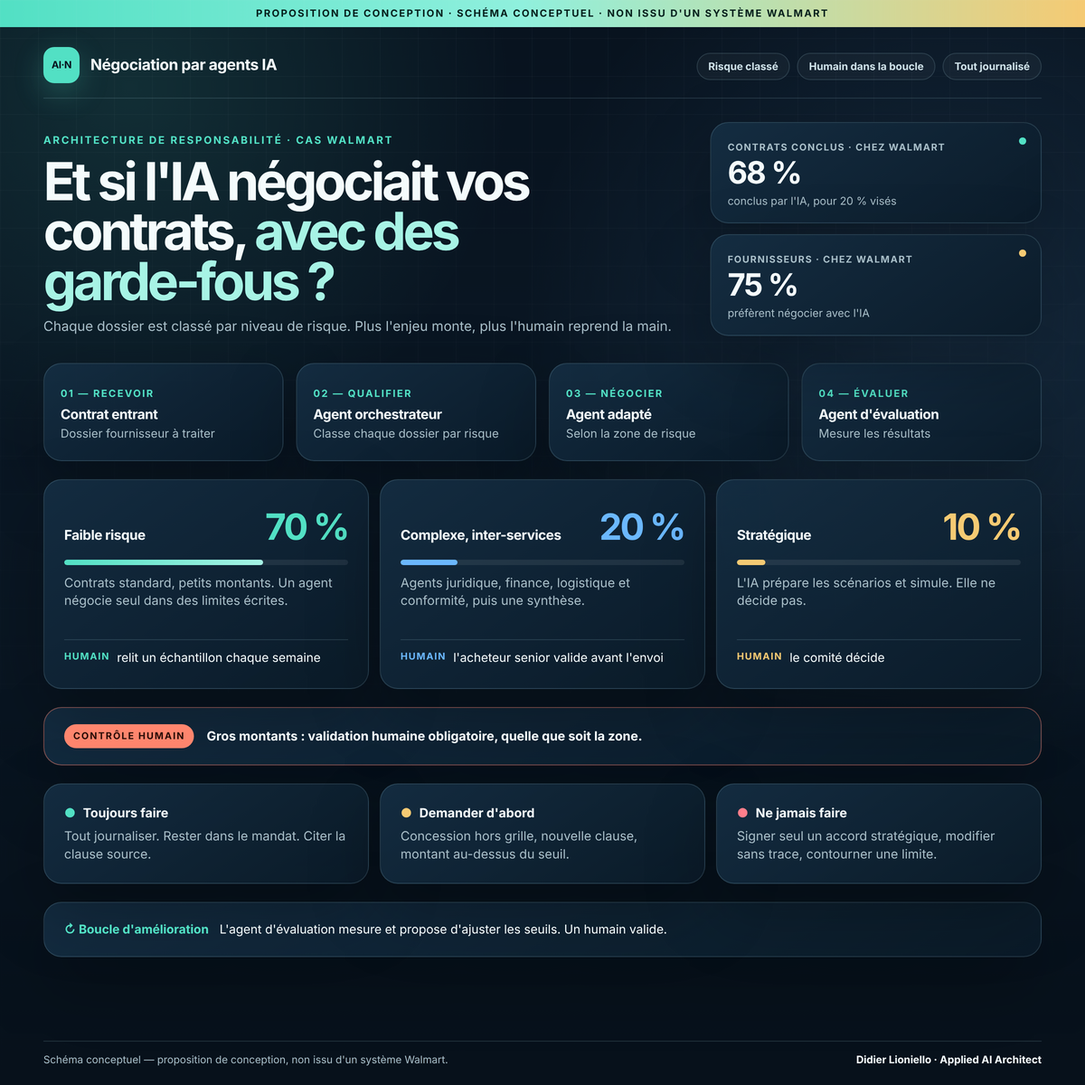
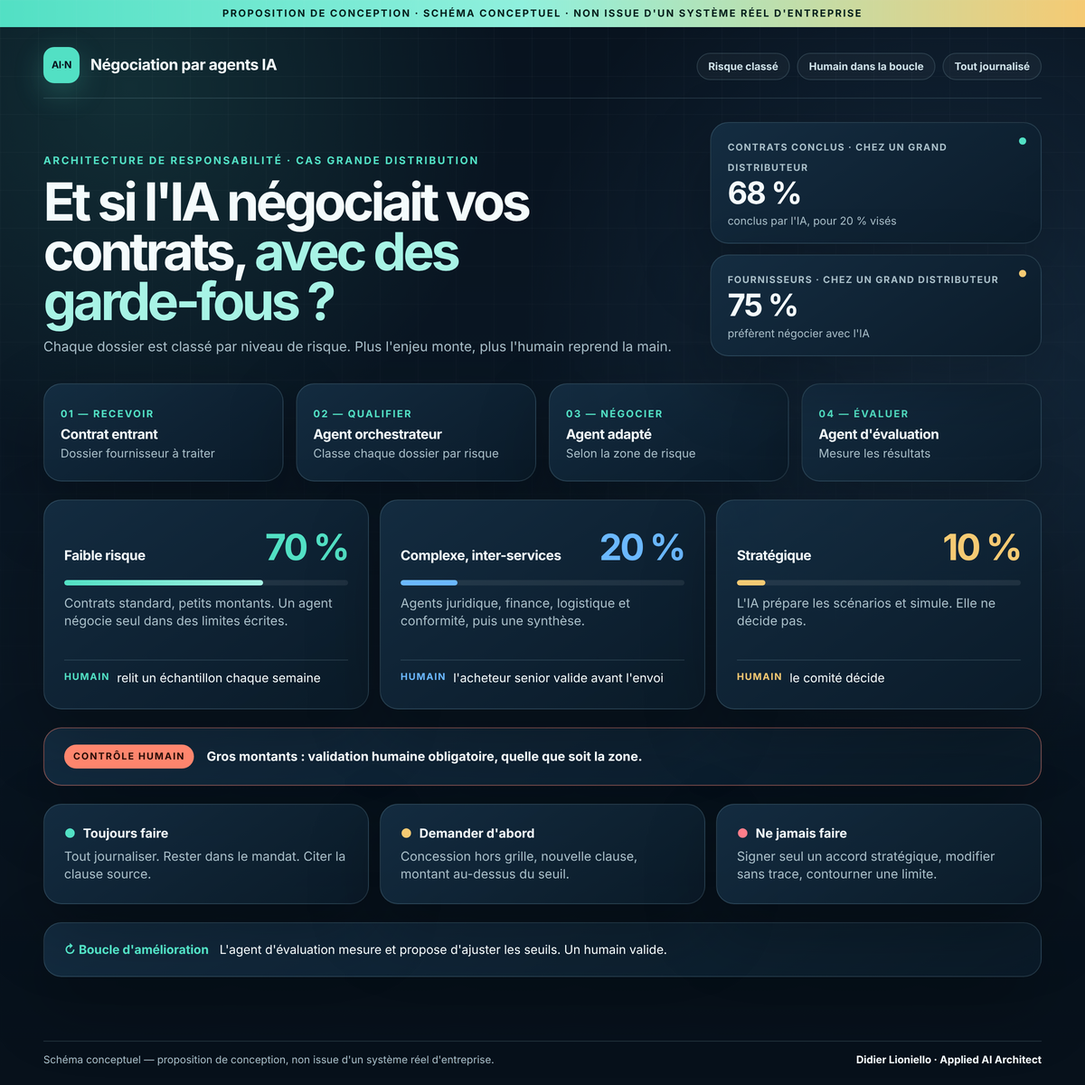
Diagramme en pleine largeur en tête de page, version Mermaid visible, cas anonymisé (grand distributeur)

diff --git a/diagramme.html b/diagramme.html
@@ -1,0 +1,91 @@
+<!doctype html>
+<html lang="fr"><head><meta charset="utf-8"><title>Diagramme · Négocier avec des agents IA, avec des garde-fous</title>
+<style>
+*{box-sizing:border-box;margin:0}
+html,body{width:3000px;height:2100px;overflow:hidden}
+body{position:relative;color:#f4fbfc;font-family:Inter,ui-sans-serif,"Segoe UI",sans-serif;
+background:radial-gradient(circle at 12% 10%,rgba(82,224,196,.16),transparent 900px),radial-gradient(circle at 88% 30%,rgba(107,184,255,.16),transparent 1000px),radial-gradient(circle at 50% 95%,rgba(245,202,115,.08),transparent 900px),linear-gradient(180deg,#08131f,#0a1724 50%,#07111b)}
+body::before{content:"";position:absolute;inset:0;background-image:linear-gradient(rgba(255,255,255,.025) 2px,transparent 2px),linear-gradient(90deg,rgba(255,255,255,.025) 2px,transparent 2px);background-size:84px 84px}
+.bar{position:absolute;left:0;right:0;top:0;height:16px;background:linear-gradient(90deg,#52e0c4,#8ff0dd 48%,#f5ca73)}
+.n{position:absolute;padding:30px 36px;border:2px solid rgba(166,210,223,.2);border-radius:36px;background:linear-gradient(160deg,#152e43,#0b1b29);box-shadow:0 40px 100px rgba(0,0,0,.35)}
+.eb{color:#52e0c4;font-size:30px;font-weight:850;letter-spacing:.14em;text-transform:uppercase}
+h1{position:absolute;left:80px;top:110px;font-size:104px;font-weight:900;letter-spacing:-.045em;line-height:1}
+h1 em{font-style:normal;color:#f5ca73}
+.t{font-size:46px;font-weight:850;letter-spacing:-.025em;line-height:1.1;margin-top:10px}
+.d{font-size:33px;color:#c3d5dc;line-height:1.3;margin-top:12px}
+.big{font-size:96px;font-weight:900;letter-spacing:-.05em;line-height:1}
+ul{padding-left:34px;margin-top:12px}li{font-size:30px;color:#c3d5dc;line-height:1.22;margin:4px 0}
+.gate{border-style:solid;border-width:2px 14px;border-radius:18px;background:linear-gradient(160deg,#1a3a40,#0d2026)}
+.orch{border:4px solid #52e0c4;box-shadow:0 0 90px rgba(82,224,196,.45),0 0 0 14px rgba(82,224,196,.08),0 40px 100px rgba(0,0,0,.35)}
+svg{position:absolute;inset:0;pointer-events:none}
+.lbl{font:850 38px Inter,sans-serif;letter-spacing:-.01em}
+</style></head><body>
+<div class="bar"></div>
+<p class="eb" style="position:absolute;left:84px;top:56px">Schéma conceptuel · Achats · Négociation fournisseurs</p>
+<h1>Négocier avec des agents IA,<br><em>avec des garde-fous</em></h1>
+<div class="n" style="left:1580px;top:40px;width:660px;height:270px;padding:26px 32px"><div class="eb" style="font-size:24px">Chez un grand distributeur</div><div class="big" style="color:#52e0c4">68 %</div><div class="d" style="margin-top:8px;font-size:31px">de contrats conclus par l'IA (objectif : 20 %)</div></div>
+<div class="n" style="left:2260px;top:40px;width:660px;height:270px;padding:26px 32px"><div class="eb" style="font-size:24px;color:#6bb8ff">Chez un grand distributeur</div><div class="big" style="color:#6bb8ff">75 %</div><div class="d" style="margin-top:8px;font-size:31px">des fournisseurs préfèrent négocier avec l'IA</div></div>
+
+<!-- principe -->
+<div class="n" style="left:80px;top:340px;width:1040px;height:330px"><div class="eb">Le principe</div><div class="t">Plus l'enjeu monte, plus l'humain reprend la main.</div><div class="d">Chaque agent a des objectifs, des limites et des règles écrites, plutôt qu'un prompt parfait. Tout est journalisé pour l'audit.</div></div>
+
+<!-- règles -->
+<div class="n" style="left:1300px;top:330px;width:1620px;height:390px;padding:24px 30px;border-color:rgba(245,202,115,.35)">
+<div class="eb" style="color:#f5ca73">Protocoles d'agent · fournis à l'orchestrateur et à chaque agent</div>
+<div style="display:grid;grid-template-columns:1fr 1fr 1fr;gap:30px;margin-top:6px">
+<div><div class="t" style="color:#52e0c4;font-size:40px">✓ Toujours faire</div><ul><li>Journaliser chaque décision</li><li>Rester dans le mandat</li><li>Citer la clause source</li><li>Escalader si doute</li></ul></div>
+<div><div class="t" style="color:#f5ca73;font-size:40px">? Demander d'abord</div><ul><li>Concession hors grille</li><li>Nouveau type de clause</li><li>Montant au-dessus du seuil</li><li>Fournisseur en litige</li></ul></div>
+<div><div class="t" style="color:#ff7e8b;font-size:40px">✕ Ne jamais faire</div><ul><li>Signer seul un accord clé</li><li>Modifier un contrat sans trace</li><li>Partager des données privées</li><li>Contourner une limite</li></ul></div>
+</div></div>
+
+<!-- recevoir -->
+<div class="n" style="left:80px;top:880px;width:400px;height:340px"><div class="eb">01 · Entrées</div><div class="t">Dossier fournisseur</div><div class="d">Contrats, historique de prix, objectifs et limites</div></div>
+<!-- orchestrateur -->
+<div class="n orch" style="left:600px;top:830px;width:520px;height:440px"><div class="eb">02 · Qualifier</div><div class="t" style="font-size:58px">Agent orchestrateur</div><div class="d">Classe chaque dossier par niveau de risque et l'oriente vers la bonne zone</div></div>
+
+<!-- lanes: agents x1300-2150, gates x2290-2920 -->
+<div class="n" style="left:1300px;top:740px;width:850px;height:250px;border-left:10px solid #52e0c4"><div class="eb">03 · 70 % · Faible risque</div><div class="t">Agent de négociation autonome</div><div class="d">Négocie seul, dans des limites écrites</div></div>
+<div class="n gate" style="left:2290px;top:740px;width:630px;height:250px;border-color:#52e0c4"><div class="eb">Contrôle humain</div><div class="t" style="font-size:40px">Un humain relit un échantillon chaque semaine</div></div>
+
+<div class="n" style="left:1300px;top:1020px;width:850px;height:250px;border-left:10px solid #6bb8ff"><div class="eb" style="color:#6bb8ff">03 · 20 % · Complexe</div><div class="t">Agents juridique, finance, logistique, conformité</div><div class="d">+ un agent de synthèse</div></div>
+<div class="n gate" style="left:2290px;top:1020px;width:630px;height:250px;border-color:#6bb8ff"><div class="eb" style="color:#6bb8ff">Contrôle humain</div><div class="t" style="font-size:40px">L'acheteur senior valide avant l'envoi</div></div>
+
+<div class="n" style="left:1300px;top:1300px;width:850px;height:250px;border-left:10px solid #f5ca73"><div class="eb" style="color:#f5ca73">03 · 10 % · Stratégique</div><div class="t">Agent de préparation</div><div class="d">L'IA prépare les scénarios et simulations</div></div>
+<div class="n gate" style="left:2290px;top:1300px;width:630px;height:250px;border-color:#f5ca73"><div class="eb" style="color:#f5ca73">Contrôle humain</div><div class="t" style="font-size:40px">Le comité décide</div></div>
+
+<!-- gros montants -->
+<div class="n" style="left:1300px;top:1580px;width:1620px;height:110px;padding:0 36px;display:flex;align-items:center;gap:24px;border:4px dashed #ff866e;background:linear-gradient(90deg,rgba(255,134,110,.22),rgba(255,134,110,.08))"><span style="font-size:40px;font-weight:900;color:#ff866e;letter-spacing:.04em">GROS MONTANTS</span><span style="font-size:36px;font-weight:700">validation humaine obligatoire, quelle que soit la zone</span></div>
+
+<!-- évaluer -->
+<div class="n" style="left:1300px;top:1770px;width:1620px;height:240px;border:3px solid #f5ca73"><div class="eb" style="color:#f5ca73">04 · Évaluer</div><div class="t">Agent d'évaluation</div><div class="d">Mesure conclusion, délais, écarts de prix, avis fournisseurs ; propose d'ajuster les seuils</div></div>
+
+<!-- footer left -->
+<div style="position:absolute;left:80px;top:1920px;width:1150px"><div style="font-size:30px;color:#a8bec8">Schéma conceptuel — proposition de conception, non issue d'un système réel d'entreprise.</div><div style="font-size:40px;font-weight:850;margin-top:14px">Didier Lioniello · <span style="color:#52e0c4">Applied AI Architect</span></div></div>
+
+<svg viewBox="0 0 3000 2100" width="3000" height="2100">
+<defs>
+<marker id="mt" viewBox="0 0 10 10" refX="8" refY="5" markerWidth="5" markerHeight="5" orient="auto"><path d="M0 0L10 5L0 10z" fill="#52e0c4"/></marker>
+<marker id="mb" viewBox="0 0 10 10" refX="8" refY="5" markerWidth="5" markerHeight="5" orient="auto"><path d="M0 0L10 5L0 10z" fill="#6bb8ff"/></marker>
+<marker id="mg" viewBox="0 0 10 10" refX="8" refY="5" markerWidth="5" markerHeight="5" orient="auto"><path d="M0 0L10 5L0 10z" fill="#f5ca73"/></marker>
+<marker id="mw" viewBox="0 0 10 10" refX="8" refY="5" markerWidth="5" markerHeight="5" orient="auto"><path d="M0 0L10 5L0 10z" fill="#a8bec8"/></marker>
+</defs>
+<g fill="none" stroke-width="10" stroke-linecap="round">
+<path d="M480 1050H585" stroke="#a8bec8" marker-end="url(#mw)"/>
+<path d="M1120 990C1200 990 1200 865 1285 865" stroke="#52e0c4" marker-end="url(#mt)"/>
+<path d="M1120 1100C1200 1100 1200 1145 1285 1145" stroke="#6bb8ff" marker-end="url(#mb)"/>
+<path d="M1120 1200C1200 1200 1200 1425 1285 1425" stroke="#f5ca73" marker-end="url(#mg)"/>
+<path d="M2150 865H2275" stroke="#52e0c4" marker-end="url(#mt)"/>
+<path d="M2150 1145H2275" stroke="#6bb8ff" marker-end="url(#mb)"/>
+<path d="M2150 1425H2275" stroke="#f5ca73" marker-end="url(#mg)"/>
+<path d="M1300 700C1060 700 960 720 960 812" stroke="#f5ca73" marker-end="url(#mg)"/>
+<path d="M1725 1690V1758M2380 1690V1758M2780 1690V1758" stroke="#a8bec8" stroke-width="7" marker-end="url(#mw)"/>
+<path d="M1300 1890H860V1290" stroke="#f5ca73" stroke-dasharray="26 18" marker-end="url(#mg)"/>
+</g>
+<text class="lbl" x="1150" y="900" fill="#52e0c4">70 %</text>
+<text class="lbl" x="1170" y="1090" fill="#6bb8ff">20 %</text>
+<text class="lbl" x="1150" y="1400" fill="#f5ca73">10 %</text>
+<text class="lbl" x="880" y="1470" fill="#f5ca73">↺ ajuste seuils et</text>
+<text class="lbl" x="880" y="1520" fill="#f5ca73">répartition, validé</text><text class="lbl" x="880" y="1570" fill="#f5ca73">par un humain</text>
+<text x="2410" y="1738" fill="#a8bec8" style="font:700 30px Inter">résultats</text>
+</svg>
+</body></html>

diff --git a/index.html b/index.html
@@ -11,15 +11,36 @@
 <script src="app.js" defer></script>
 </head>
 <body>
-<div class="banner">PROPOSITION DE CONCEPTION · NON ISSUE D'UN SYSTÈME WALMART · AUCUN RÉSULTAT MESURÉ REVENDIQUÉ</div>
+<div class="banner">PROPOSITION DE CONCEPTION · NON ISSUE D'UN SYSTÈME RÉEL D'ENTREPRISE · AUCUN RÉSULTAT MESURÉ REVENDIQUÉ</div>
+<div class="diagram-wrap" id="schema">
+<a href="schema-agents-ia-diagramme.png" class="diagram-frame" title="Ouvrir en pleine résolution (3000 × 2100)"><img src="schema-agents-ia-diagramme-1400.png" srcset="schema-agents-ia-diagramme-1400.png 1400w, schema-agents-ia-diagramme.png 3000w" sizes="(max-width: 1540px) 100vw, 1500px" width="1400" height="980" loading="eager" fetchpriority="high" alt="Diagramme : le dossier fournisseur et les protocoles d'agent entrent dans l'agent orchestrateur, qui répartit les dossiers en trois zones : 70 % faible risque (agent autonome, un humain relit un échantillon chaque semaine), 20 % complexe (agents juridique, finance, logistique, conformité et synthèse, l'acheteur senior valide), 10 % stratégique (l'IA prépare les scénarios, le comité décide). Les gros montants exigent une validation humaine dans toutes les zones. L'agent d'évaluation mesure les résultats et ajuste seuils et répartition, validé par un humain."></a>
+</div>
 <header class="shell">
 <nav class="nav" aria-label="Navigation principale">
 <a class="brand" href="#top"><span class="brand-mark">IA</span>Agents IA en entreprise</a>
-<div class="nav-links"><a href="#chiffres">Chiffres</a><a href="#schema">Schéma</a><a href="#architecture">Architecture</a><a href="#flux">Flux</a><a href="#post">Post</a><a href="#limites">Limites</a></div>
+<div class="nav-links"><a href="#schema">Schéma</a><a href="#mermaid">Mermaid</a><a href="#chiffres">Chiffres</a><a href="#architecture">Architecture</a><a href="#flux">Flux</a><a href="#post">Post</a><a href="#limites">Limites</a></div>
 </nav>
 </header>
 <main class="shell" id="top">
-<section class="hero">
+<section id="mermaid" aria-labelledby="h-mermaid">
+<div class="section-head"><p class="eyebrow">Source</p><h2 id="h-mermaid">Version Mermaid (source du diagramme)</h2><p>Le diagramme ci-dessus est le rendu fidèle de ce flowchart. Détail : <a href="https://github.com/didier-lioniello/agents-ia-entreprise/blob/main/schema-agents-ia.md">schema-agents-ia.md</a> · <a href="schema-agents-ia-diagramme.png">PNG 3000 × 2100</a> · <a href="schema-agents-ia-diagramme-1400.png">PNG 1400</a> · <a href="schema-agents-ia-linkedin.png">visuel carré LinkedIn</a></p></div>
+<pre class="card code">flowchart TD
+    A[Entrées : contrats, historique de prix, objectifs et limites] --&gt; O[Agent orchestrateur : classe chaque dossier par niveau de risque]
+    R[Protocoles d&#x27;agent : toujours faire / demander d&#x27;abord / ne jamais faire] --&gt; O
+    O --&gt;|70 % faible risque| L1[Agent de négociation autonome]
+    O --&gt;|20 % complexe inter-services| L2[Agents juridique, finance, chaîne d&#x27;approvisionnement, conformité + agent de synthèse]
+    O --&gt;|10 % stratégique| L3[Agent de préparation : scénarios et simulations]
+    L1 --&gt; H1{{Contrôle humain : échantillon hebdomadaire et alerte de seuil}}
+    L2 --&gt; H2{{Contrôle humain : validation de l&#x27;acheteur senior avant envoi}}
+    L3 --&gt; H3{{Contrôle humain : le comité décide}}
+    G{{Gros montants : validation humaine obligatoire, quelle que soit la zone}} -.-&gt; H1 &amp; H2 &amp; H3
+    H1 --&gt; E[Agent d&#x27;évaluation : taux de conclusion, délais, écarts de prix, avis fournisseurs]
+    H2 --&gt; E
+    H3 --&gt; E
+    E --&gt;|ajuste seuils et répartition, validé par un humain| O
+</pre>
+</section>
+<section class="hero slim">
 <p class="eyebrow">Architecture d'agents IA · Achats</p>
 <h1>Négocier avec des agents IA, <em>avec des garde-fous.</em></h1>
 <p class="lead">Un orchestrateur classe chaque dossier fournisseur par niveau de risque. Plus l'enjeu monte, plus l'humain reprend la main. Des objectifs, des limites et des règles écrites, plutôt que le prompt parfait.</p>
@@ -27,9 +48,9 @@
 </section>
 
 <section id="chiffres" aria-labelledby="h-chiffres">
-<div class="section-head"><p class="eyebrow">Vue d'ensemble</p><h2 id="h-chiffres">Les chiffres du marché et du modèle</h2><p>Le point de départ : chez Walmart, une IA négocie déjà des contrats fournisseurs.</p></div>
+<div class="section-head"><p class="eyebrow">Vue d'ensemble</p><h2 id="h-chiffres">Les chiffres du marché et du modèle</h2><p>Le point de départ : chez un grand distributeur, une IA négocie déjà des contrats fournisseurs.</p></div>
 <div class="grid g2">
-<article class="card"><span class="kpi-label">Contrats conclus par l'IA</span><span class="kpi teal">68 %</span><div class="bar"><i class="t w68"></i></div><div class="bar-legend"><span>objectif initial : 20 %</span><span>atteint : 68 %</span></div><p>Chez Walmart, l'IA a conclu plus de trois fois plus de contrats que l'objectif fixé.</p></article>
+<article class="card"><span class="kpi-label">Contrats conclus par l'IA</span><span class="kpi teal">68 %</span><div class="bar"><i class="t w68"></i></div><div class="bar-legend"><span>objectif initial : 20 %</span><span>atteint : 68 %</span></div><p>Chez un grand distributeur, l'IA a conclu plus de trois fois plus de contrats que l'objectif fixé.</p></article>
 <article class="card"><span class="kpi-label">Fournisseurs qui préfèrent l'IA</span><span class="kpi blue">75 %</span><div class="bar"><i class="b w75"></i></div><div class="bar-legend"><span>0 %</span><span>100 %</span></div><p>Trois fournisseurs sur quatre préfèrent négocier avec elle, parce que c'est plus rapide.</p></article>
 </div>
 <div class="grid g4 mt18">
@@ -40,14 +61,6 @@
 </div>
 </section>
 
-<section id="schema" aria-labelledby="h-schema">
-<div class="section-head"><p class="eyebrow">Le schéma</p><h2 id="h-schema">Le visuel complet</h2></div>
-<figure class="card figure">
-<img src="schema-agents-ia-linkedin-1200.png" width="1200" height="1200" loading="lazy" alt="Schéma : un orchestrateur répartit les dossiers fournisseurs en trois zones de risque (70 % autonome, 20 % validé par un acheteur senior, 10 % décidé par un comité), avec trois listes de règles, une validation humaine pour les gros montants et un agent d'évaluation qui boucle sur l'orchestrateur.">
-<figcaption>Workflow d'agents IA de négociation fournisseurs, supervisé par niveau de risque. Proposition de conception de Didier Lioniello.</figcaption>
-<div class="links"><a class="btn" href="schema-agents-ia-linkedin.png">Version 2400 × 2400</a><a class="btn" href="schema-agents-ia-linkedin-1200.png">Version 1200 × 1200</a><a class="btn" href="https://github.com/didier-lioniello/agents-ia-entreprise/blob/main/schema-agents-ia.md">Détail et Mermaid</a></div>
-</figure>
-</section>
 
 <section id="architecture" aria-labelledby="h-archi">
 <div class="section-head"><p class="eyebrow">Architecture du système</p><h2 id="h-archi">Un orchestrateur, trois zones, un contrôle humain par zone</h2><p>L'agent orchestrateur reçoit les entrées (contrats, historique de prix, objectifs et limites) et classe chaque dossier par niveau de risque avant de l'orienter.</p></div>
@@ -97,7 +110,7 @@
 <div class="section-head"><p class="eyebrow">Post LinkedIn</p><h2 id="h-post">Le texte qui accompagne le visuel</h2></div>
 <article class="card">
 <div class="post-head"><span class="pill gold">Brouillon, non publié</span><button class="btn" id="copy-post" type="button">Copier le texte</button></div>
-<pre class="post" id="post-text">Chez Walmart, une IA négocie les contrats fournisseurs : 68 % de contrats conclus alors que l'objectif était de 20 %, et 75 % des fournisseurs préfèrent négocier avec elle, parce que c'est plus rapide.
+<pre class="post" id="post-text">Chez un grand distributeur, une IA négocie les contrats fournisseurs : 68 % de contrats conclus alors que l'objectif était de 20 %, et 75 % des fournisseurs préfèrent négocier avec elle, parce que c'est plus rapide.
 
 C'est impressionnant. Mais je ne confierais pas tous les contrats au même agent.
 
@@ -113,7 +126,7 @@ Voici l'architecture que je propose :
 
 Des objectifs, des limites et des règles, plutôt que le prompt parfait.
 
-Précision honnête : ce schéma est une proposition de conception, pas l'architecture de Walmart, et je n'ai pas de résultats mesurés pour lui.
+Précision honnête : ce schéma est une proposition de conception, pas l'architecture d'une entreprise réelle, et je n'ai pas de résultats mesurés pour lui.
 
 Et chez vous, quelle part des décisions pourrait passer en autonomie demain, avec quelles limites écrites ?
 
@@ -127,7 +140,7 @@ Didier Lioniello · Applied AI Architect</pre>
 <div class="section-head"><p class="eyebrow">Limites et honnêteté</p><h2 id="h-limites">Ce que ce livrable est, et n'est pas</h2></div>
 <div class="grid g3">
 <article class="card"><h3 class="teal">C'est</h3><p>Une proposition de conception de Didier Lioniello, Applied AI Architect : une manière de répartir l'autonomie des agents selon le risque.</p></article>
-<article class="card"><h3 class="coralc">Ce n'est pas</h3><p>L'architecture réelle de Walmart, qui n'est pas publique. Seuls les deux chiffres de départ concernent Walmart.</p></article>
+<article class="card"><h3 class="coralc">Ce n'est pas</h3><p>L'architecture réelle d'un grand distributeur, qui n'est pas publique. Seuls les deux chiffres de départ concernent la grande distribution.</p></article>
 <article class="card"><h3 class="goldc">À tester</h3><p>Aucun résultat mesuré n'est revendiqué. La répartition 70 / 20 / 10 et les seuils sont des hypothèses à valider sur des données réelles.</p></article>
 </div>
 </section>

diff --git a/infographic.html b/infographic.html
@@ -50,17 +50,17 @@ h1 em{font-style:normal;color:var(--teal-soft)}
 .foot{position:absolute;left:48px;right:48px;bottom:20px;display:flex;justify-content:space-between;color:var(--muted);font-size:11.5px;border-top:1px solid var(--line);padding-top:12px}
 .foot b{color:var(--text)}
 </style></head><body>
-<div class="banner">PROPOSITION DE CONCEPTION · SCHÉMA CONCEPTUEL · NON ISSU D'UN SYSTÈME WALMART</div>
+<div class="banner">PROPOSITION DE CONCEPTION · SCHÉMA CONCEPTUEL · NON ISSUE D'UN SYSTÈME RÉEL D'ENTREPRISE</div>
 <div class="wrap">
 <div class="nav"><div class="brand"><span class="mark">AI·N</span>Négociation par agents IA</div>
 <div><span class="pill">Risque classé</span><span class="pill">Humain dans la boucle</span><span class="pill">Tout journalisé</span></div></div>
 <div class="hero"><div>
-<p class="eyebrow">Architecture de responsabilité · cas Walmart</p>
+<p class="eyebrow">Architecture de responsabilité · cas grande distribution</p>
 <h1>Et si l'IA négociait vos contrats, <em>avec des garde‑fous&nbsp;?</em></h1>
 <p class="copy">Chaque dossier est classé par niveau de risque. Plus l'enjeu monte, plus l'humain reprend la main.</p></div>
 <div class="kpis">
-<div class="card kpi"><i class="dot" style="background:var(--teal)"></i><small>Contrats conclus · chez Walmart</small><b>68 %</b><span>conclus par l'IA, pour 20 % visés</span></div>
-<div class="card kpi"><i class="dot" style="background:var(--gold)"></i><small>Fournisseurs · chez Walmart</small><b>75 %</b><span>préfèrent négocier avec l'IA</span></div>
+<div class="card kpi"><i class="dot" style="background:var(--teal)"></i><small>Contrats conclus · chez un grand distributeur</small><b>68 %</b><span>conclus par l'IA, pour 20 % visés</span></div>
+<div class="card kpi"><i class="dot" style="background:var(--gold)"></i><small>Fournisseurs · chez un grand distributeur</small><b>75 %</b><span>préfèrent négocier avec l'IA</span></div>
 </div></div>
 <div class="flow">
 <div class="card step"><span class="n">01 — RECEVOIR</span><b>Contrat entrant</b><p>Dossier fournisseur à traiter</p></div>
@@ -81,5 +81,5 @@ h1 em{font-style:normal;color:var(--teal-soft)}
 </div>
 <div class="card loop"><b>↻ Boucle d'amélioration</b><span>L'agent d'évaluation mesure et propose d'ajuster les seuils. Un humain valide.</span></div>
 </div>
-<div class="foot"><span>Schéma conceptuel — proposition de conception, non issu d'un système Walmart.</span><b>Didier Lioniello · Applied AI Architect</b></div>
+<div class="foot"><span>Schéma conceptuel — proposition de conception, non issue d'un système réel d'entreprise.</span><b>Didier Lioniello · Applied AI Architect</b></div>
 </body></html>

diff --git a/styles.css b/styles.css
@@ -53,3 +53,10 @@ footer .links{justify-content:flex-start}
 @media (max-width:620px){.g2,.g4{grid-template-columns:1fr}.nav-links{gap:14px}.hero{padding-top:40px}.card{padding:20px}}
 .w68{width:68%}.w75{width:75%}.w70{width:70%}.w20{width:20%}.w10{width:10%}.mt{margin-top:16px}.mt18{margin-top:18px}.sig{color:var(--text)}
 .timeline{list-style:none;padding:0;margin:0}
+.diagram-wrap{width:min(1500px,calc(100% - 24px));margin:14px auto 0}
+.diagram-frame{display:block;padding:8px;border:1px solid var(--line);border-radius:24px;background:linear-gradient(160deg,#152e43,#0b1b29);box-shadow:0 0 60px rgba(82,224,196,.12),var(--shadow)}
+.diagram-frame img{display:block;width:100%;height:auto;border-radius:18px}
+.code{margin:0;overflow-x:auto;font:500 .88rem/1.6 ui-monospace,SFMono-Regular,Menlo,Consolas,monospace;color:var(--teal-soft);white-space:pre}
+.hero.slim{padding:40px 0 20px}
+.hero.slim h1{font-size:clamp(2rem,4vw,3rem)}
+@media (max-width:620px){.banner{font-size:.6rem;letter-spacing:.08em;padding:6px 12px}.diagram-wrap{width:calc(100% - 12px)}.diagram-frame{padding:4px;border-radius:14px}}

diff --git a/make_schema.py b/make_schema.py
@@ -28,7 +28,7 @@ def arrow(x1,y1,x2,y2,col="#444"):
     for s in (-0.5,0.5):
         d.line((x2,y2,x2-L*math.cos(a+s),y2-L*math.sin(a+s)),fill=col,width=5)
 d.text((50,28),"Négociation fournisseurs avec des agents IA : version supervisée par niveau de risque",font=f(38,True),fill="#0B2545")
-d.text((50,80),"Proposition de Didier Lioniello à partir du cas Walmart : 68 % de contrats conclus par l'IA, contre 20 % visés.",font=f(23),fill="#444")
+d.text((50,80),"Proposition de Didier Lioniello à partir du cas de départ : 68 % de contrats conclus par l'IA, contre 20 % visés.",font=f(23),fill="#444")
 # input
 box(50,130,560,150,"1. Entrées","Contrats fournisseurs, historique de prix, objectifs métier et limites (marge, délais, clauses).","#E8F0FE","#3B6FD4")
 box(720,130,560,150,"2. Agent orchestrateur","Lit l'objectif, classe chaque dossier par niveau de risque, attribue l'agent et fixe le point de contrôle.","#FFF4D6","#D9A400")
@@ -62,7 +62,7 @@ for i,(t,b,c) in enumerate(cols):
     for l in wrap(b,f(20),590): d.text((x,ty),l,font=f(20),fill="#222"); ty+=28
 # bottom loop
 box(50,1360,900,160,"3. Agent d'évaluation (boucle d'amélioration)","Mesure le taux de contrats conclus, les délais, les écarts de prix et l'avis des fournisseurs. Propose d'ajuster les seuils et la répartition 70 / 20 / 10, toujours validé par un humain.","#E8F0FE","#3B6FD4",bs=20)
-box(1000,1360,950,160,"Ce qui s'améliore par rapport au cas Walmart","Les décisions à fort enjeu restent humaines, tout est tracé, les seuils sont revus par des mesures, et chaque agent a un mandat écrit plutôt qu'une consigne parfaite.","#E3F6E8","#2E9B54",bs=20)
+box(1000,1360,950,160,"Ce qui s'améliore par rapport au cas de départ","Les décisions à fort enjeu restent humaines, tout est tracé, les seuils sont revus par des mesures, et chaque agent a un mandat écrit plutôt qu'une consigne parfaite.","#E3F6E8","#2E9B54",bs=20)
 arrow(1000,1330,500,1360,"#444"); 
-d.text((50,1530),"Schéma de proposition, pas l'architecture réelle de Walmart. Proposition de conception de Didier Lioniello (Applied AI Architect).",font=f(18),fill="#666")
+d.text((50,1530),"Schéma de proposition, pas l'architecture réelle d'une entreprise. Proposition de conception de Didier Lioniello (Applied AI Architect).",font=f(18),fill="#666")
 img.save("schema-agents-ia.png")

diff --git a/README.md b/README.md
@@ -2,27 +2,29 @@
 
 [Ouvrir la page en ligne](https://didier-lioniello.github.io/agents-ia-entreprise/).
 
-> **PROPOSITION DE CONCEPTION · NON ISSUE D'UN SYSTÈME WALMART**
+> **PROPOSITION DE CONCEPTION · NON ISSUE D'UN SYSTÈME RÉEL D'ENTREPRISE**
 > Aucun résultat mesuré n'est revendiqué. Rien n'est publié sur les réseaux sociaux depuis ce dépôt.
 
 Ce dépôt présente une architecture d'agents IA pour la négociation de contrats fournisseurs, supervisée par niveau de risque : un orchestrateur répartit les dossiers en trois zones (70 / 20 / 10 %), chaque zone a son contrôle humain, trois listes de règles encadrent les agents et un agent d'évaluation ajuste le système. C'est une proposition de Didier Lioniello (Applied AI Architect).
 
 La page [`index.html`](index.html) est statique : pas d'API, pas de CDN, pas de traceur. Une Content Security Policy stricte n'autorise que la feuille de style, le script et les images locaux.
 
-![Aperçu de la page](docs/apercu.png)
+![Diagramme : négocier avec des agents IA, avec des garde-fous](schema-agents-ia-diagramme.png)
+
+Diagramme complet : [`schema-agents-ia-diagramme.png`](schema-agents-ia-diagramme.png) (3000 × 2100) · [version 1400](schema-agents-ia-diagramme-1400.png) · source [`diagramme.html`](diagramme.html). Aperçu de la page : [`docs/apercu.png`](docs/apercu.png).
 
 ## Vue d'ensemble
 
 | Indicateur | Valeur |
 |---|---|
-| Contrats conclus par l'IA chez Walmart | 68 % (objectif : 20 %) |
+| Contrats conclus par l'IA chez un grand distributeur | 68 % (objectif : 20 %) |
 | Fournisseurs qui préfèrent négocier avec l'IA | 75 % |
 | Zones de risque du modèle | 3 (70 % faible, 20 % complexe, 10 % stratégique) |
 | Étapes du flux | 4 (Recevoir, Qualifier, Négocier, Évaluer) |
 | Listes de règles | 3 (toujours faire, demander d'abord, ne jamais faire) |
 | Validation humaine obligatoire | 1 (gros montants, toutes zones) |
 
-Seuls les deux premiers chiffres concernent Walmart ; le reste décrit la conception proposée.
+Seuls les deux premiers chiffres concernent la grande distribution ; le reste décrit la conception proposée.
 
 ## Architecture
 
@@ -30,12 +32,13 @@ Détail : [`docs/architecture.md`](docs/architecture.md) · flux : [`docs/workfl
 
 ## Contenu de la page
 
-1. Vue d'ensemble des chiffres
-2. Le schéma visuel (2400 × 2400 et 1200 × 1200)
-3. Architecture : orchestrateur, zones 70 / 20 / 10, validation des gros montants, règles, agent d'évaluation
-4. Flux de travail en quatre étapes et diagramme en HTML/CSS
-5. Post LinkedIn (brouillon, non publié) avec bouton de copie
-6. Limites et honnêteté
+1. Le diagramme, en pleine largeur tout en haut
+2. Version Mermaid (source du diagramme)
+3. Vue d'ensemble des chiffres
+4. Architecture : orchestrateur, zones 70 / 20 / 10, validation des gros montants, règles, agent d'évaluation
+5. Flux de travail en quatre étapes et diagramme en HTML/CSS
+6. Post LinkedIn (brouillon, non publié) avec bouton de copie
+7. Limites et honnêteté
 
 ## Voir en local
 
@@ -47,7 +50,15 @@ python3 -m http.server 8000   # puis http://localhost:8000
 
 Ouvrir `index.html` directement fonctionne aussi.
 
-## Générer le visuel
+## Générer les visuels
+
+Le diagramme vient de [`diagramme.html`](diagramme.html), rendu fidèle du flowchart Mermaid de `schema-agents-ia.md` :
+
+```bash
+google-chrome --headless=new --hide-scrollbars --window-size=3000,2100 \
+  --screenshot=schema-agents-ia-diagramme.png diagramme.html
+```
+
 
 Le visuel carré vient de [`infographic.html`](infographic.html), rendu avec Chrome sans interface :
 
@@ -62,9 +73,10 @@ google-chrome --headless=new --hide-scrollbars --window-size=1200,1200 \
 
 ```text
 index.html, styles.css, app.js     page de présentation
+schema-agents-ia-diagramme*.png    diagramme principal (3000 × 2100 et 1400)
 schema-agents-ia-linkedin*.png     visuel carré (2400 et 1200)
 schema-agents-ia.png               figure rectangulaire
-infographic.html, make_schema.py   sources des visuels
+diagramme.html, infographic.html, make_schema.py   sources des visuels
 schema-agents-ia.md                détail du schéma et Mermaid
 post-linkedin-schema.md            texte du post LinkedIn (brouillon)
 docs/                              architecture, flux, règles, aperçu
@@ -72,7 +84,7 @@ docs/                              architecture, flux, règles, aperçu
 
 ## Limites connues
 
-- Proposition de conception, pas l'architecture réelle de Walmart, qui n'est pas publique.
+- Proposition de conception, pas l'architecture réelle d'une entreprise, qui n'est pas publique.
 - La répartition 70 / 20 / 10 et les seuils sont des hypothèses à tester.
 - Aucun résultat mesuré n'est revendiqué pour ce modèle.
 

diff --git a/post-linkedin-schema.md b/post-linkedin-schema.md
@@ -2,11 +2,11 @@
 
 **Statut : brouillon, non publié.** Didier publie lui-même l'image et le texte.
 
-Liens directs : visuel https://github.com/didier-lioniello/agents-ia-entreprise/blob/main/schema-agents-ia-linkedin.png · version 1200×1200 https://github.com/didier-lioniello/agents-ia-entreprise/blob/main/schema-agents-ia-linkedin-1200.png · détail du schéma https://github.com/didier-lioniello/agents-ia-entreprise/blob/main/schema-agents-ia.md
+Liens directs : diagramme https://github.com/didier-lioniello/agents-ia-entreprise/blob/main/schema-agents-ia-diagramme.png · visuel https://github.com/didier-lioniello/agents-ia-entreprise/blob/main/schema-agents-ia-linkedin.png · version 1200×1200 https://github.com/didier-lioniello/agents-ia-entreprise/blob/main/schema-agents-ia-linkedin-1200.png · détail du schéma https://github.com/didier-lioniello/agents-ia-entreprise/blob/main/schema-agents-ia.md
 
 ---
 
-Chez Walmart, une IA négocie les contrats fournisseurs : 68 % de contrats conclus alors que l'objectif était de 20 %, et 75 % des fournisseurs préfèrent négocier avec elle, parce que c'est plus rapide.
+Chez un grand distributeur, une IA négocie les contrats fournisseurs : 68 % de contrats conclus alors que l'objectif était de 20 %, et 75 % des fournisseurs préfèrent négocier avec elle, parce que c'est plus rapide.
 
 C'est impressionnant. Mais je ne confierais pas tous les contrats au même agent.
 
@@ -22,7 +22,7 @@ Voici l'architecture que je propose :
 
 Des objectifs, des limites et des règles, plutôt que le prompt parfait.
 
-Précision honnête : ce schéma est une proposition de conception, pas l'architecture de Walmart, et je n'ai pas de résultats mesurés pour lui.
+Précision honnête : ce schéma est une proposition de conception, pas l'architecture d'une entreprise réelle, et je n'ai pas de résultats mesurés pour lui.
 
 Et chez vous, quelle part des décisions pourrait passer en autonomie demain, avec quelles limites écrites ?
 

diff --git a/schema-agents-ia.md b/schema-agents-ia.md
@@ -6,9 +6,11 @@
 
 ## Cas de départ
 
-Chez Walmart, une IA négocie les contrats fournisseurs : l'objectif était de conclure 20 % des contrats ; l'IA en a conclu 68 %, et 75 % des fournisseurs ont préféré négocier avec elle, car c'était plus rapide.
+Chez un grand distributeur, une IA négocie les contrats fournisseurs : l'objectif était de conclure 20 % des contrats ; l'IA en a conclu 68 %, et 75 % des fournisseurs ont préféré négocier avec elle, car c'était plus rapide.
 
-La répartition par niveau de risque 70 / 20 / 10, les trois listes de règles (toujours faire, demander d'abord, ne jamais faire) et l'ensemble du workflow sont **une proposition de conception de Didier Lioniello (Applied AI Architect)**, pas l'architecture réelle de Walmart, qui n'est pas publique.
+La répartition par niveau de risque 70 / 20 / 10, les trois listes de règles (toujours faire, demander d'abord, ne jamais faire) et l'ensemble du workflow sont **une proposition de conception de Didier Lioniello (Applied AI Architect)**, pas l'architecture réelle d'une entreprise, qui n'est pas publique.
+
+Diagramme principal (rendu fidèle du Mermaid ci-dessous) : [schema-agents-ia-diagramme.png](schema-agents-ia-diagramme.png) (3000×2100), [version 1400](schema-agents-ia-diagramme-1400.png), source [diagramme.html](diagramme.html).
 
 Visuel carré LinkedIn : [schema-agents-ia-linkedin.png](schema-agents-ia-linkedin.png) (2400×2400) et [version 1200×1200](schema-agents-ia-linkedin-1200.png).
 

diff --git a/docs/architecture.md b/docs/architecture.md
@@ -1,6 +1,6 @@
 # Architecture du système
 
-Proposition de conception de Didier Lioniello (Applied AI Architect). Ce n'est pas l'architecture réelle de Walmart.
+Proposition de conception de Didier Lioniello (Applied AI Architect). Ce n'est pas l'architecture réelle d'une entreprise.
 
 ## Composants
 
